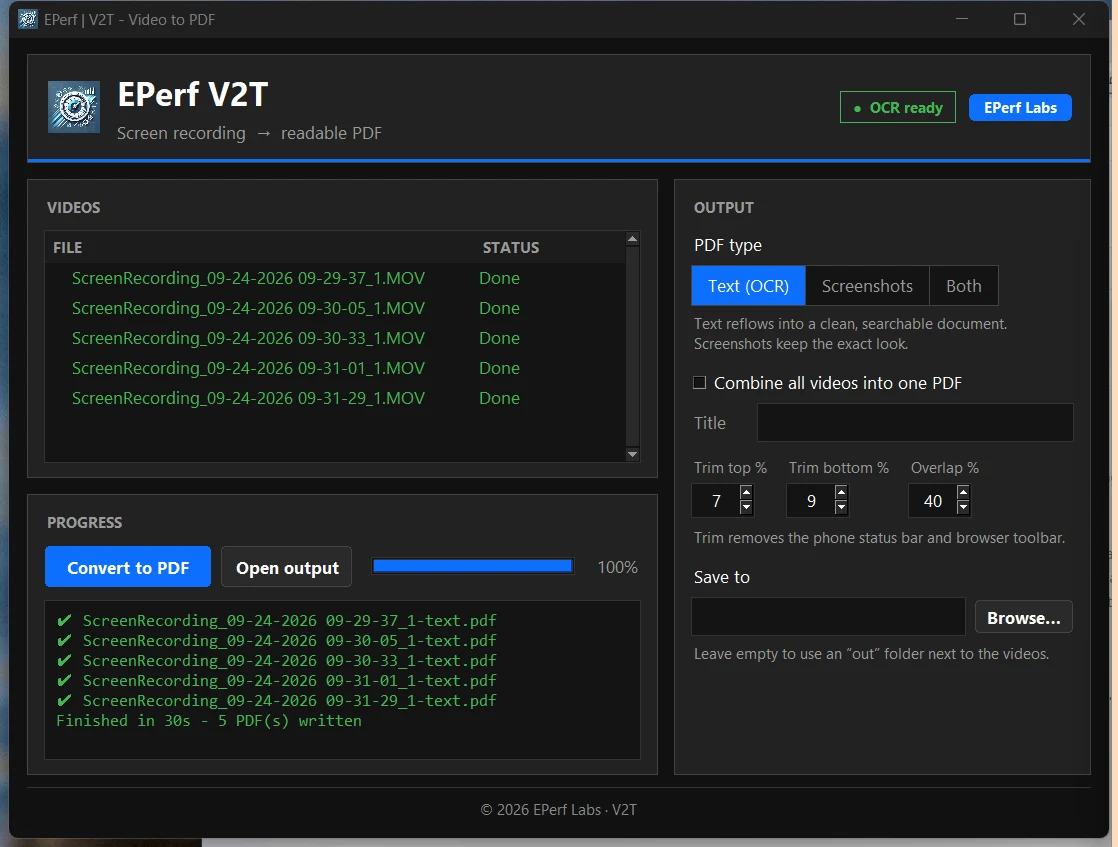
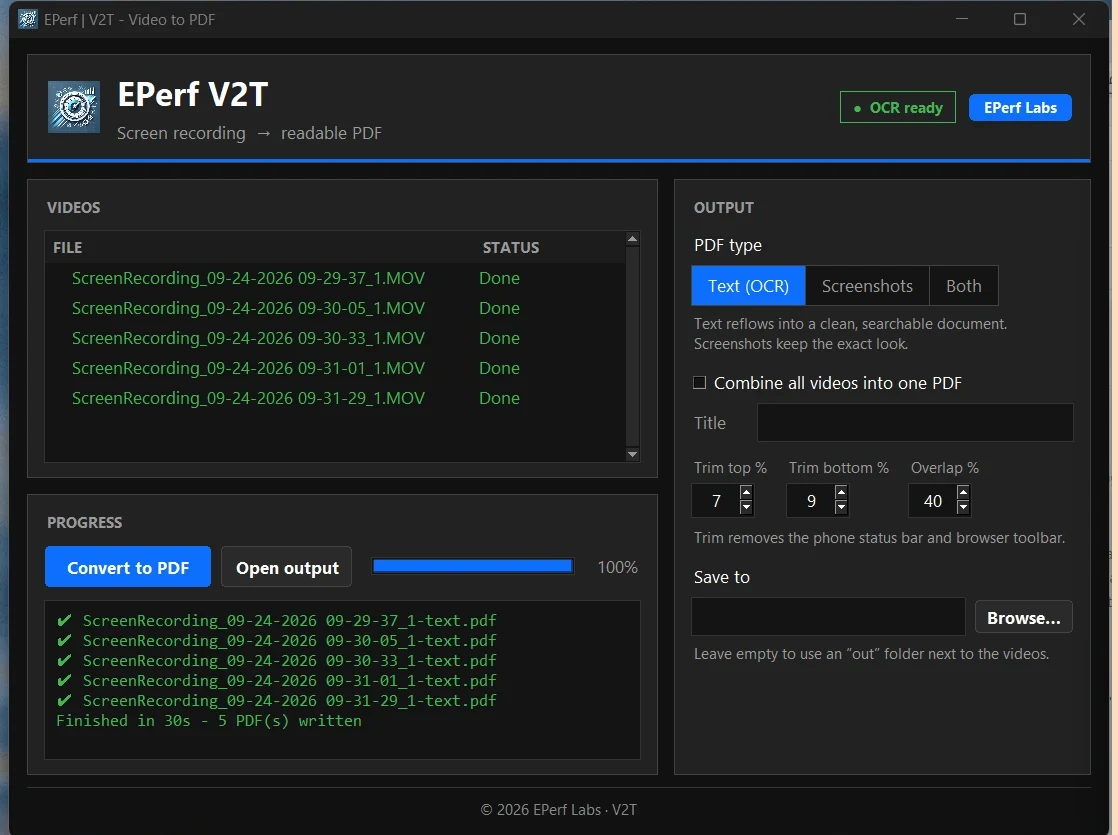
Download page: fix narrow-screen overflow, crop app screenshot

diff --git a/web/index.html b/web/index.html
@@ -42,7 +42,8 @@
   }
 
   /* hero */
-  .hero { display: grid; grid-template-columns: 1fr 1.15fr; gap: 36px; align-items: center; padding: 44px 0 28px; }
+  .hero > *, .grid3 > *, .two > * { min-width: 0; }
+  .hero { display: grid; grid-template-columns: minmax(0, 1fr) minmax(0, 1.15fr); gap: 36px; align-items: center; padding: 44px 0 28px; }
   h1 { color: var(--fg); font-size: 34px; line-height: 1.2; margin: 0 0 12px; }
   .lede { font-size: 17px; color: var(--text); margin: 0 0 22px; }
   .btn {
@@ -100,9 +101,10 @@
   footer { text-align: center; color: #888; font-size: 13px; margin-top: 36px; padding: 18px; border-top: 1px solid var(--border); }
 
   @media (max-width: 820px) {
-    .hero { grid-template-columns: 1fr; padding-top: 28px; }
+    .hero { grid-template-columns: minmax(0, 1fr); padding-top: 28px; }
+    kbd { white-space: normal; }
     h1 { font-size: 28px; }
-    .grid3, .two { grid-template-columns: 1fr; }
+    .grid3, .two { grid-template-columns: minmax(0, 1fr); }
   }
   @media (max-width: 480px) {
     .badge { display: none; }
@@ -132,7 +134,7 @@
       </a>
       <div class="meta" id="meta">V2T.exe · Windows 10 / 11 (64-bit) · free</div>
     </div>
-    <img class="shot" src="assets/v2t-app.webp" width="1118" height="847"
+    <img class="shot" src="assets/v2t-app.webp" width="1118" height="835"
          alt="The V2T app after converting five screen recordings to PDF">
   </div>
 
